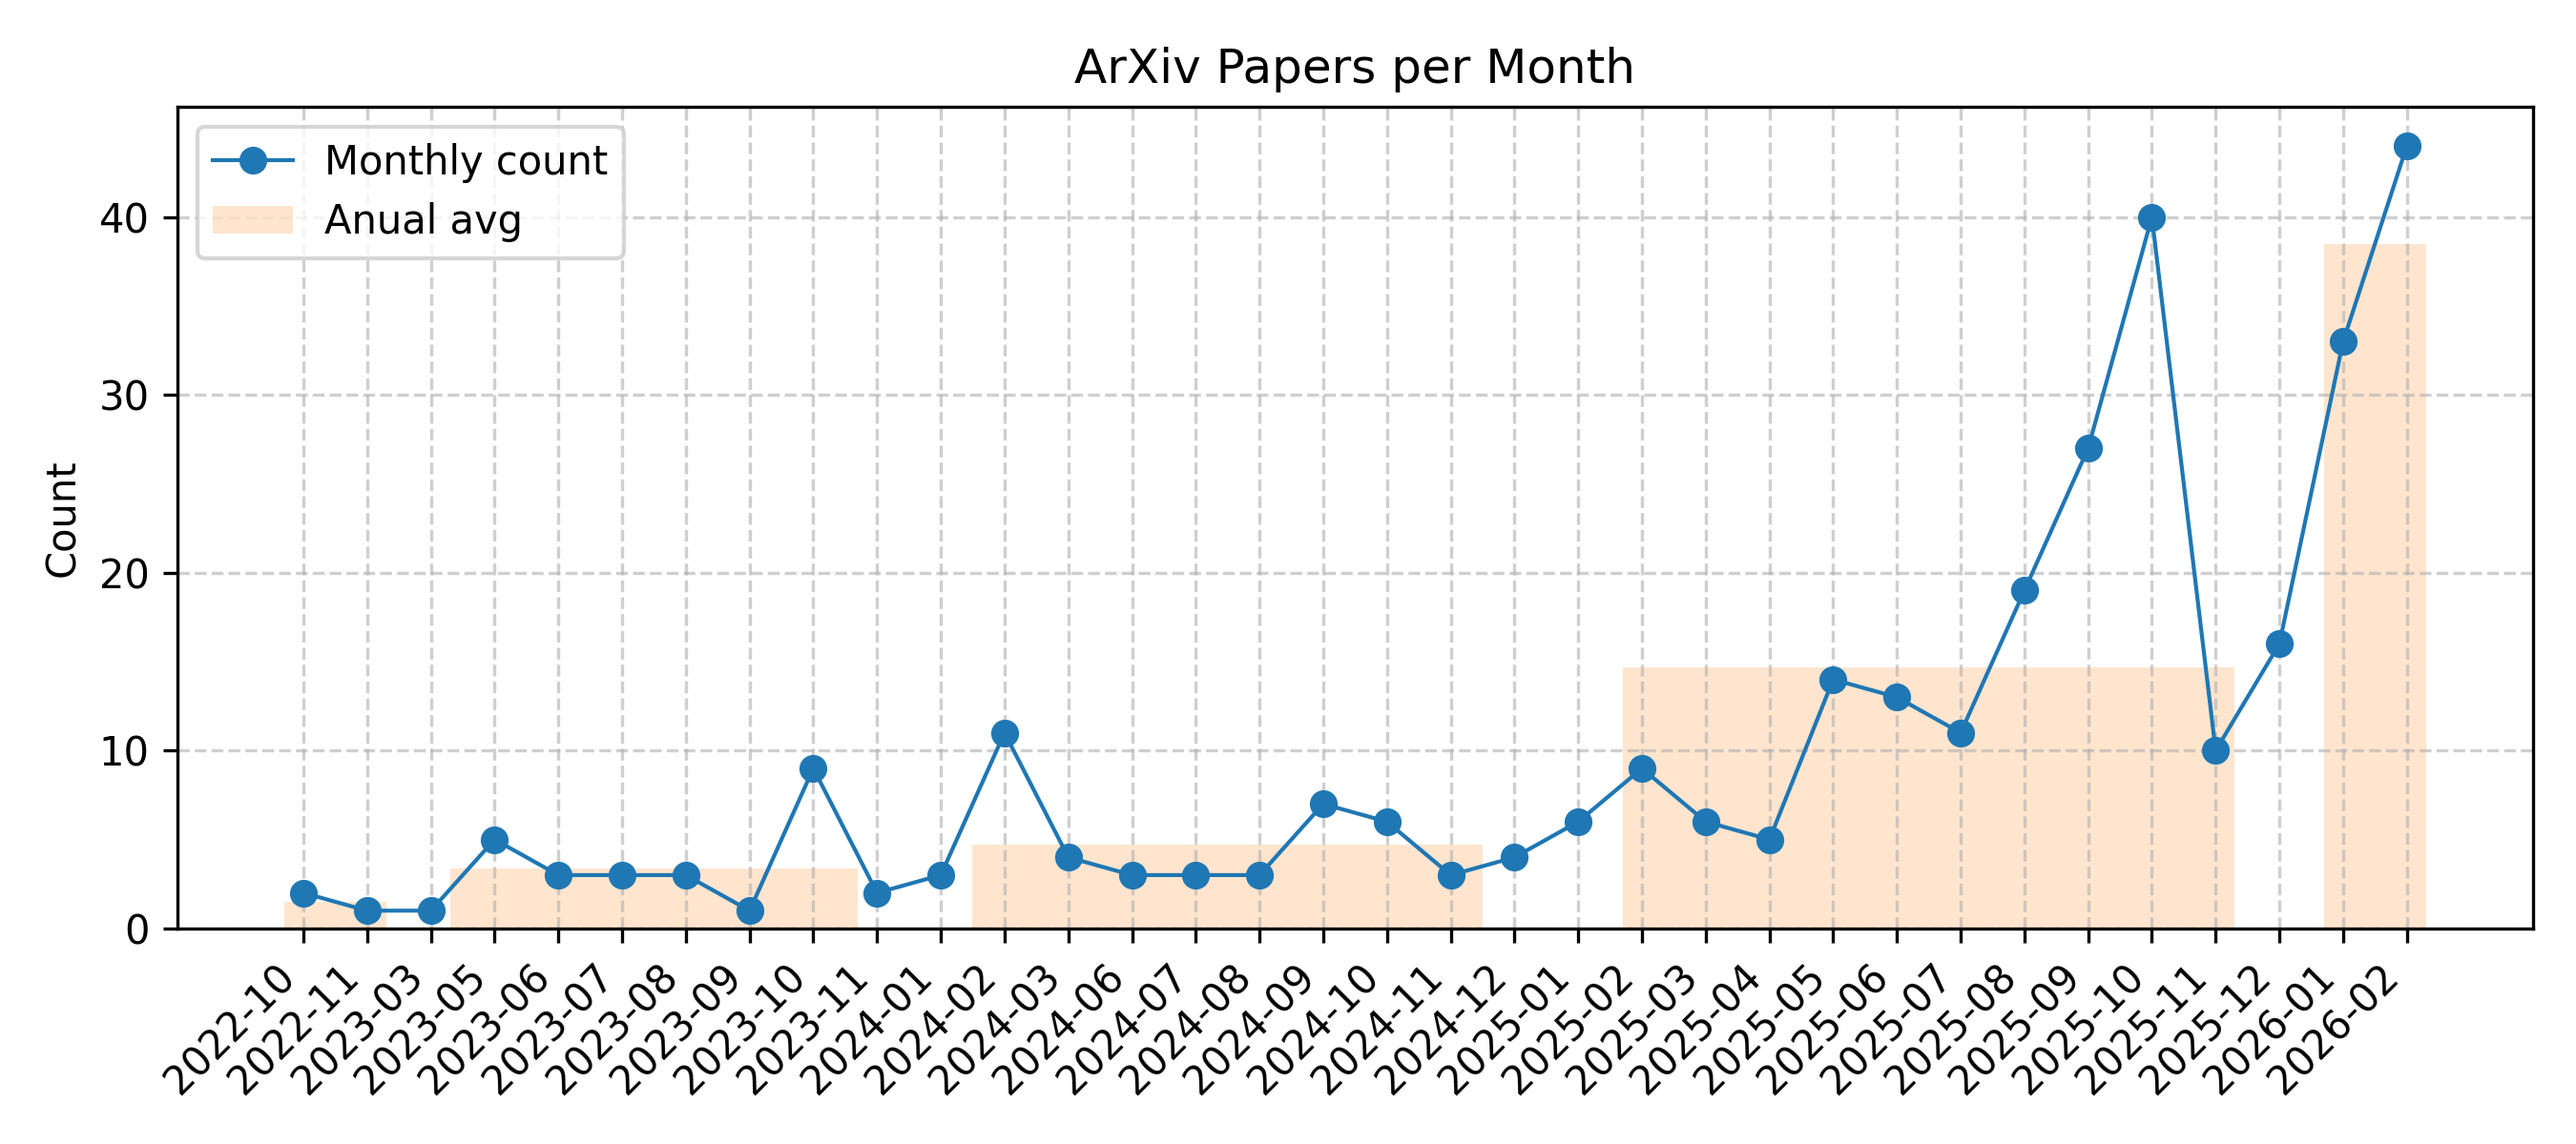
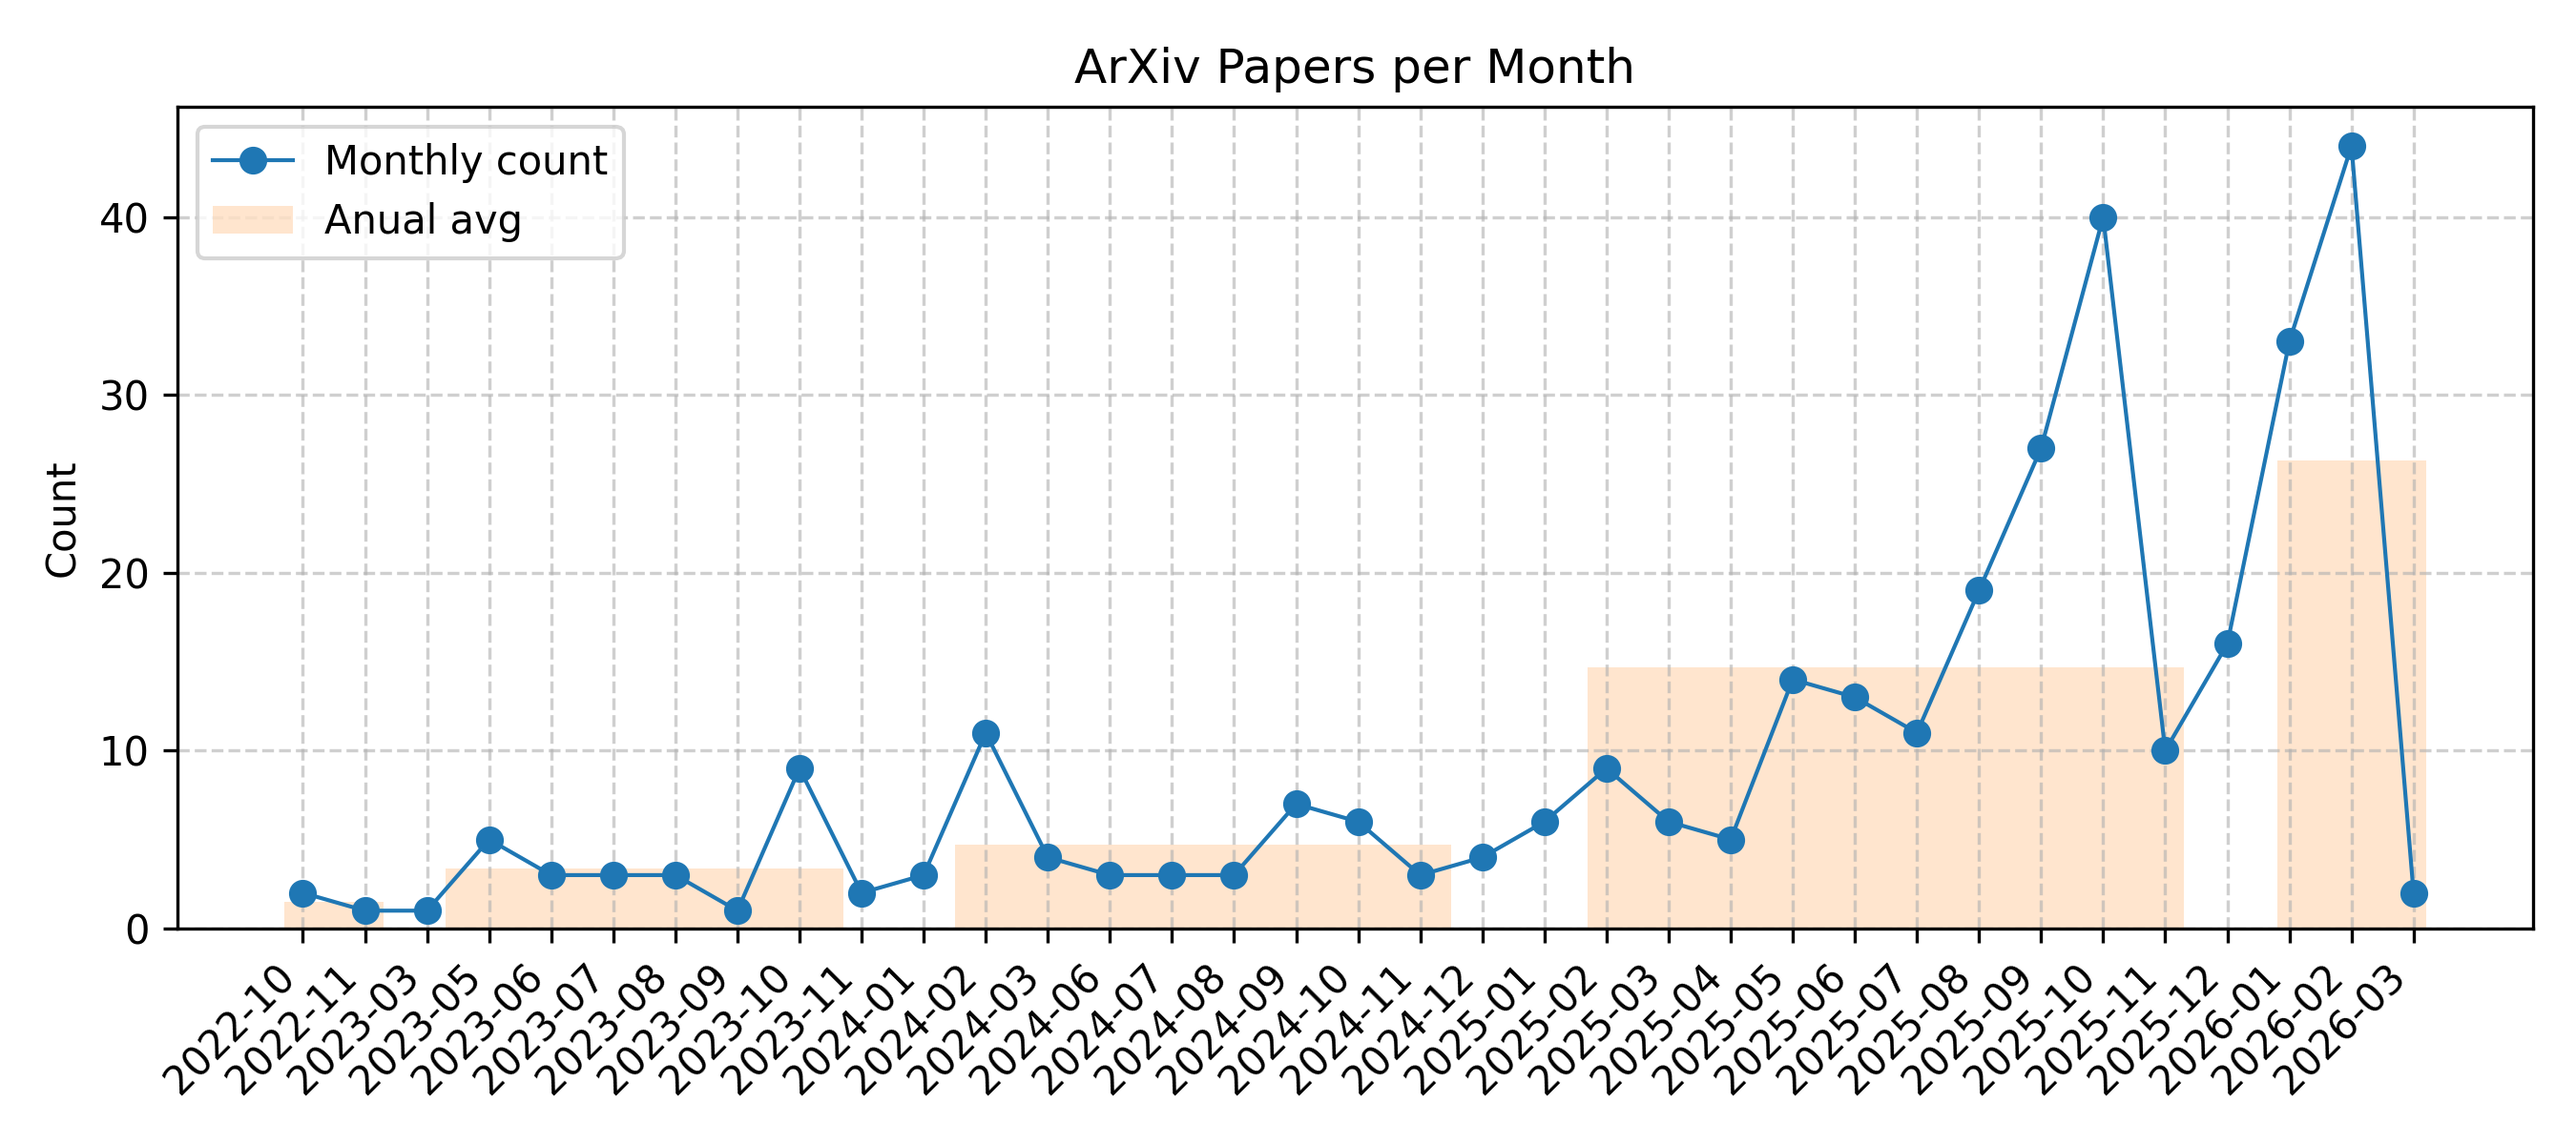
Github Action Automatic Update Diffusion NLP Arxiv Papers

diff --git a/README.md b/README.md
@@ -5,7 +5,7 @@
 
 For more carefully curated articles, you can refer to this [repository](https://github.com/bansky-cl/Diffusion_NLP_Papers).
 
-## Updated on 2026.03.02
+## Updated on 2026.03.03
 
 ![Monthly Trend](imgs/trend.png)
 
@@ -13,6 +13,8 @@ For more carefully curated articles, you can refer to this [repository](https://
 
 |Date|Title|label|Abstract|PDF|Code|
 |---|---|---|---|---|---|
+|**2026-03-02**|**MetaState: Persistent Working Memory for Discrete Diffusion Language Models**|cs.CL, cs.AI, cs.LG| <details><summary>Full Abstract</summary>Discrete diffusion language models (dLLMs) generate text by iteratively denoising a masked sequence. Compared with autoregressive models, this paradigm naturally supports parallel decoding, bidirectional context, and flexible generation patterns. However, standard dLLMs condition each denoising step only on the current hard-masked sequence, while intermediate continuous representations are discarded after sampling and remasking. We refer to this bottleneck as the \textbf{Information Island} problem. It leads to redundant recomputation across steps and can degrade cross-step consistency. We address this limitation with \textbf{MetaState}, a lightweight recurrent augmentation that equips a frozen dLLM backbone with a persistent, fixed-size working memory that remains independent of sequence length. \textbf{MetaState} consists of three trainable modules: a cross-attention Mixer that reads backbone activations into memory slots, a GRU-style Updater that integrates information across denoising steps, and a cross-attention Injector that feeds the updated memory back into backbone activations. We train these modules with $K$-step unrolling to expose them to multi-step denoising dynamics during fine-tuning. On LLaDA-8B and Dream-7B, \textbf{MetaState} introduces negligible trainable parameters while keeping the backbone frozen, and it consistently improves accuracy over frozen baselines. These results demonstrate that persistent cross-step memory is an effective mechanism for bridging denoising steps and improving generation quality in discrete diffusion language models.</details>|[2603.01331v1](http://arxiv.org/abs/2603.01331v1)| null|
+|**2026-03-01**|**Reasoning or Rationalization? The Role of Justifications in Masked Diffusion Models for Fact Verification**|cs.CL| <details><summary>Full Abstract</summary>Unlike autoregressive models, which generate tokens sequentially and benefit from reasoning-before-answering strategies such as Chain-of-Thought, Masked Diffusion Language Models (MDLMs) refine all sequence positions simultaneously, raising questions about how these models handle tasks requiring justified verdicts. In this work, we investigate the dynamics of MDLM reasoning on fact verification, examining whether justifications serve as genuine reasoning or post-hoc rationalization. We observe that MDLMs typically converge on a verdict early in the diffusion process, treating it as a global anchor that is resolved before the justification is complete. Crucially, enforcing a reasoning-first constraint via delayed verdict unmasking actively degrades performance, dropping accuracy from 86.2% to 71.9% as accumulating justification tokens introduce inconsistencies that override initially correct predictions. Interventional experiments reveal that the model rationalizes incorrect forced verdicts in 56% of cases, and that verdicts are strongly causally dependent on justification quality (57.3% accuracy with corrupted justifications vs. 97.1% with ground-truth). This causal dependence explains the degradation under forced deliberation: as the model generates noisy justification tokens, it conditions on them, gradually overriding its initially correct assessment. Our findings suggest that for fact verification with MDLMs, extended deliberation can be counterproductive, risking the dilution of accurate early predictions with noise introduced during justification generation.</details>|[2603.01190v1](http://arxiv.org/abs/2603.01190v1)| null|
 |**2026-02-27**|**Divide and Conquer: Accelerating Diffusion-Based Large Language Models via Adaptive Parallel Decoding**|cs.CL| <details><summary>Full Abstract</summary>Diffusion-based large language models (dLLMs) have shown promising performance across various reasoning tasks, establishing themselves as an alternative to autoregressive large language models (LLMs). Unlike autoregressive LLMs that generate one token per step based on all previous tokens, dLLMs theoretically enable parallel generation of multiple tokens at each decoding step. However, recent dLLMs still favor one-token-per-step generation in practice, as directly decoding multiple masked tokens often leads to degraded generation quality and stability. This reveals a substantial gap between the theoretical parallelism and practical performance of dLLMs. To bridge this gap, we introduce an adaptive parallel decoding approach, namely DiCo, which features a three-phase divide-and-conquer paradigm to unleash the inherent parallelism of dLLMs. During the Divide phase, DiCo first explores the input masked sequence and identifies masked tokens as seed tokens, which are then expanded to construct a set of local clusters. During the Conquer phase, DiCo performs parallel decoding across different local clusters constructed in the Divide phase. The divide-and-conquer process repeatedly alternates between the Divide and Conquer phases until convergence. During the Finalize phase, DiCo decodes the remaining few masked tokens using an effective fine-grained compound decoding scheme to finalize the generation. Extensive experiments demonstrate that DiCo can achieve significant inference speedups while maintaining competitive generation quality.</details>|[2602.23792v1](http://arxiv.org/abs/2602.23792v1)| null|
 |**2026-02-27**|**Why Diffusion Language Models Struggle with Truly Parallel (Non-Autoregressive) Decoding?**|cs.CL, cs.AI| <details><summary>Full Abstract</summary>Diffusion Language Models (DLMs) are often advertised as enabling parallel token generation, yet practical fast DLMs frequently converge to left-to-right, autoregressive (AR)-like decoding dynamics. In contrast, genuinely non-AR generation is promising because it removes AR's sequential bottleneck, better exploiting parallel hardware to reduce synchronization/communication overhead and improve latency scaling with output length. We argue that a primary driver of AR-like decoding is a mismatch between DLM objectives and the highly sequential structure of widely used training data, including standard pretraining corpora and long chain-of-thought (CoT) supervision. Motivated by this diagnosis, we propose NAP (Non-Autoregressive Parallel DLMs), a proof-of-concept, data-centric approach that better aligns supervision with non-AR parallel decoding. NAP curates examples as multiple independent reasoning trajectories and couples them with a parallel-forced decoding strategy that encourages multi-token parallel updates. Across math reasoning benchmarks, NAP yields stronger performance under parallel decoding than DLMs trained on standard long CoT data, with gains growing as parallelism increases. Our results suggest that revisiting data and supervision is a principled direction for mitigating AR-like behavior and moving toward genuinely non-autoregressive parallel generation in DLMs. Our code is available at https://github.com/pixeli99/NAP.</details>|[2602.23225v2](http://arxiv.org/abs/2602.23225v2)| null|
 |**2026-02-26**|**Test-Time Scaling with Diffusion Language Models via Reward-Guided Stitching**|cs.CL, cs.AI| <details><summary>Full Abstract</summary>Reasoning with large language models often benefits from generating multiple chains-of-thought, but existing aggregation strategies are typically trajectory-level (e.g., selecting the best trace or voting on the final answer), discarding useful intermediate work from partial or "nearly correct" attempts. We propose Stitching Noisy Diffusion Thoughts, a self-consistency framework that turns cheap diffusion-sampled reasoning into a reusable pool of step-level candidates. Given a problem, we (i) sample many diverse, low-cost reasoning trajectories using a masked diffusion language model, (ii) score every intermediate step with an off-the-shelf process reward model (PRM), and (iii) stitch these highest-quality steps across trajectories into a composite rationale. This rationale then conditions an autoregressive (AR) model (solver) to recompute only the final answer. This modular pipeline separates exploration (diffusion) from evaluation and solution synthesis, avoiding monolithic unified hybrids while preserving broad search. Across math reasoning benchmarks, we find that step-level recombination is most beneficial on harder problems, and ablations highlight the importance of the final AR solver in converting stitched but imperfect rationales into accurate answers. Using low-confidence diffusion sampling with parallel, independent rollouts, our training-free framework improves average accuracy by up to 23.8% across six math and coding tasks. At the same time, it achieves up to a 1.8x latency reduction relative to both traditional diffusion models (e.g., Dream, LLaDA) and unified architectures (e.g., TiDAR). Code is available at https://github.com/roymiles/diffusion-stitching.</details>|[2602.22871v1](http://arxiv.org/abs/2602.22871v1)| null|
@@ -344,7 +346,7 @@ For more carefully curated articles, you can refer to this [repository](https://
 |**2022-11-01**|**DiffusER: Discrete Diffusion via Edit-based Reconstruction**|cs.CL, cs.LG| <details><summary>Full Abstract</summary>In text generation, models that generate text from scratch one token at a time are currently the dominant paradigm. Despite being performant, these models lack the ability to revise existing text, which limits their usability in many practical scenarios. We look to address this, with DiffusER (Diffusion via Edit-based Reconstruction), a new edit-based generative model for text based on denoising diffusion models -- a class of models that use a Markov chain of denoising steps to incrementally generate data. DiffusER is not only a strong generative model in general, rivalling autoregressive models on several tasks spanning machine translation, summarization, and style transfer; it can also perform other varieties of generation that standard autoregressive models are not well-suited for. For instance, we demonstrate that DiffusER makes it possible for a user to condition generation on a prototype, or an incomplete sequence, and continue revising based on previous edit steps.</details>|[2210.16886v1](http://arxiv.org/abs/2210.16886v1)| null|
 |**2023-02-01**|**Diffuser: Efficient Transformers with Multi-hop Attention Diffusion for Long Sequences**|cs.LG, cs.CL|<details><summary>Full Abstract</summary>Efficient Transformers have been developed for long sequence modeling, due to their subquadratic memory and time complexity. Sparse Transformer is a popular approach to improving the efficiency of Transformers by restricting self-attention to locations specified by the predefined sparse patterns. However, leveraging sparsity may sacrifice expressiveness compared to full-attention, when important token correlations are multiple hops away. To combine advantages of both the efficiency of sparse transformer and the expressiveness of full-attention Transformer, we propose \textit{Diffuser}, a new state-of-the-art efficient Transformer. Diffuser incorporates all token interactions within one attention layer while maintaining low computation and memory costs. The key idea is to expand the receptive field of sparse attention using Attention Diffusion, which computes multi-hop token correlations based on all paths between corresponding disconnected tokens, besides attention among neighboring tokens. Theoretically, we show the expressiveness of Diffuser as a universal sequence approximator for sequence-to-sequence modeling, and investigate its ability to approximate full-attention by analyzing the graph expander property from the spectral perspective. Experimentally, we investigate the effectiveness of Diffuser with extensive evaluations, including language modeling, image modeling, and Long Range Arena (LRA). Evaluation results show that Diffuser achieves improvements by an average of 0.94% on text classification tasks and 2.30% on LRA, with 1.67$\times$ memory savings compared to state-of-the-art benchmarks, which demonstrates superior performance of Diffuser in both expressiveness and efficiency aspects.</details>|[2210.11794v2](http://arxiv.org/abs/2210.11794v2)|**[link](https://github.com/asFeng/Diffuser)**|
 
-<p align=right>(<a href=#Updated-on-20260302>back to top</a>)</p>
+<p align=right>(<a href=#Updated-on-20260303>back to top</a>)</p>
 
 [contributors-shield]: https://img.shields.io/github/contributors/bansky-cl/diffusion-nlp-paper-arxiv.svg?style=for-the-badge
 [contributors-url]: https://github.com/bansky-cl/diffusion-nlp-paper-arxiv/graphs/contributors
